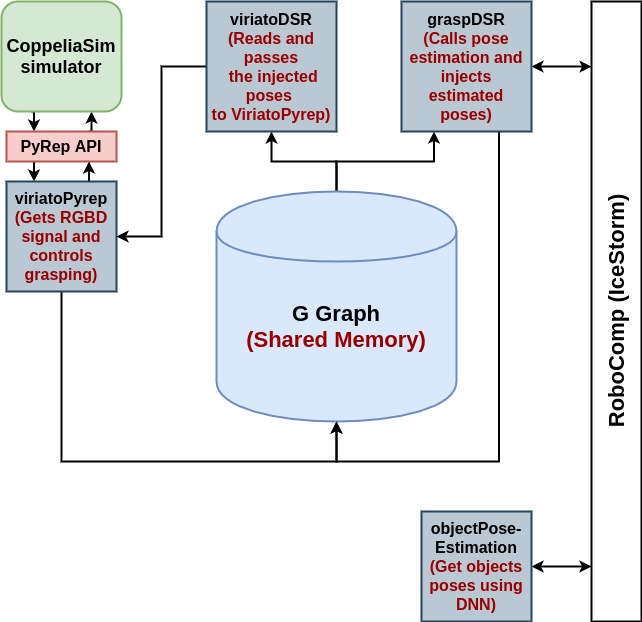
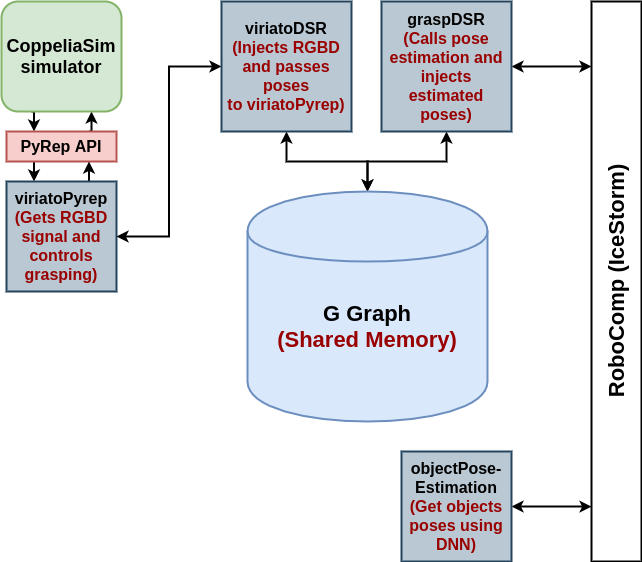
update system workflow with DSR in main README

diff --git a/README.md b/README.md
@@ -28,22 +28,22 @@ git clone --recurse-submodules https://github.com/robocomp/grasping.git
 <div align=center><img width="60%" height="60%" src="assets/components_structure.png"/></div>
 
 <div align="center">
-Figure(1) : Complete schema for grasping and pose estimation workflow.
+Figure(1) : Complete schema for grasping and pose estimation workflow with DSR.
 </div><br>
 
 As shown in the figure, the components workflow goes as follows :
 
--   `viriatoPyrep` component streams the RGBD signal from CoppeliaSim simulator using PyRep API and publishes it to the shared graph.
+-   `viriatoPyrep` component streams the RGBD signal from CoppeliaSim simulator using PyRep API and publishes it to the shared graph through `viriatoDSR` component.
 
 -   `graspDSR` component reads the RGBD signal from shared graph and passes it `objectPoseEstimation` component.
 
 -   `objectPoseEstimation` component, then, performs pose estimation using DNN and returns the estimated poses.
 
--   `graspDSR` component injects the estimated poses into the shared graph.
+-   `graspDSR` component injects the estimated poses into the shared graph and progressively plans dummy targets for the arm to reach the target object.
 
--   `viriatoDSR` component, then, reads the estimated poses from the shared graph and passes it to `viriatoPyrep` component.
+-   `viriatoDSR` component, then, reads the dummy target poses from the shared graph and passes it to `viriatoPyrep` component.
 
--   Finally, `viriatoPyrep` component uses the estimated poses to plan a successful grasp on the object.
+-   Finally, `viriatoPyrep` component uses the generated poses by `graspDSR` to progressively plan a successful grasp on the object.
 
 ## System Demos
 
